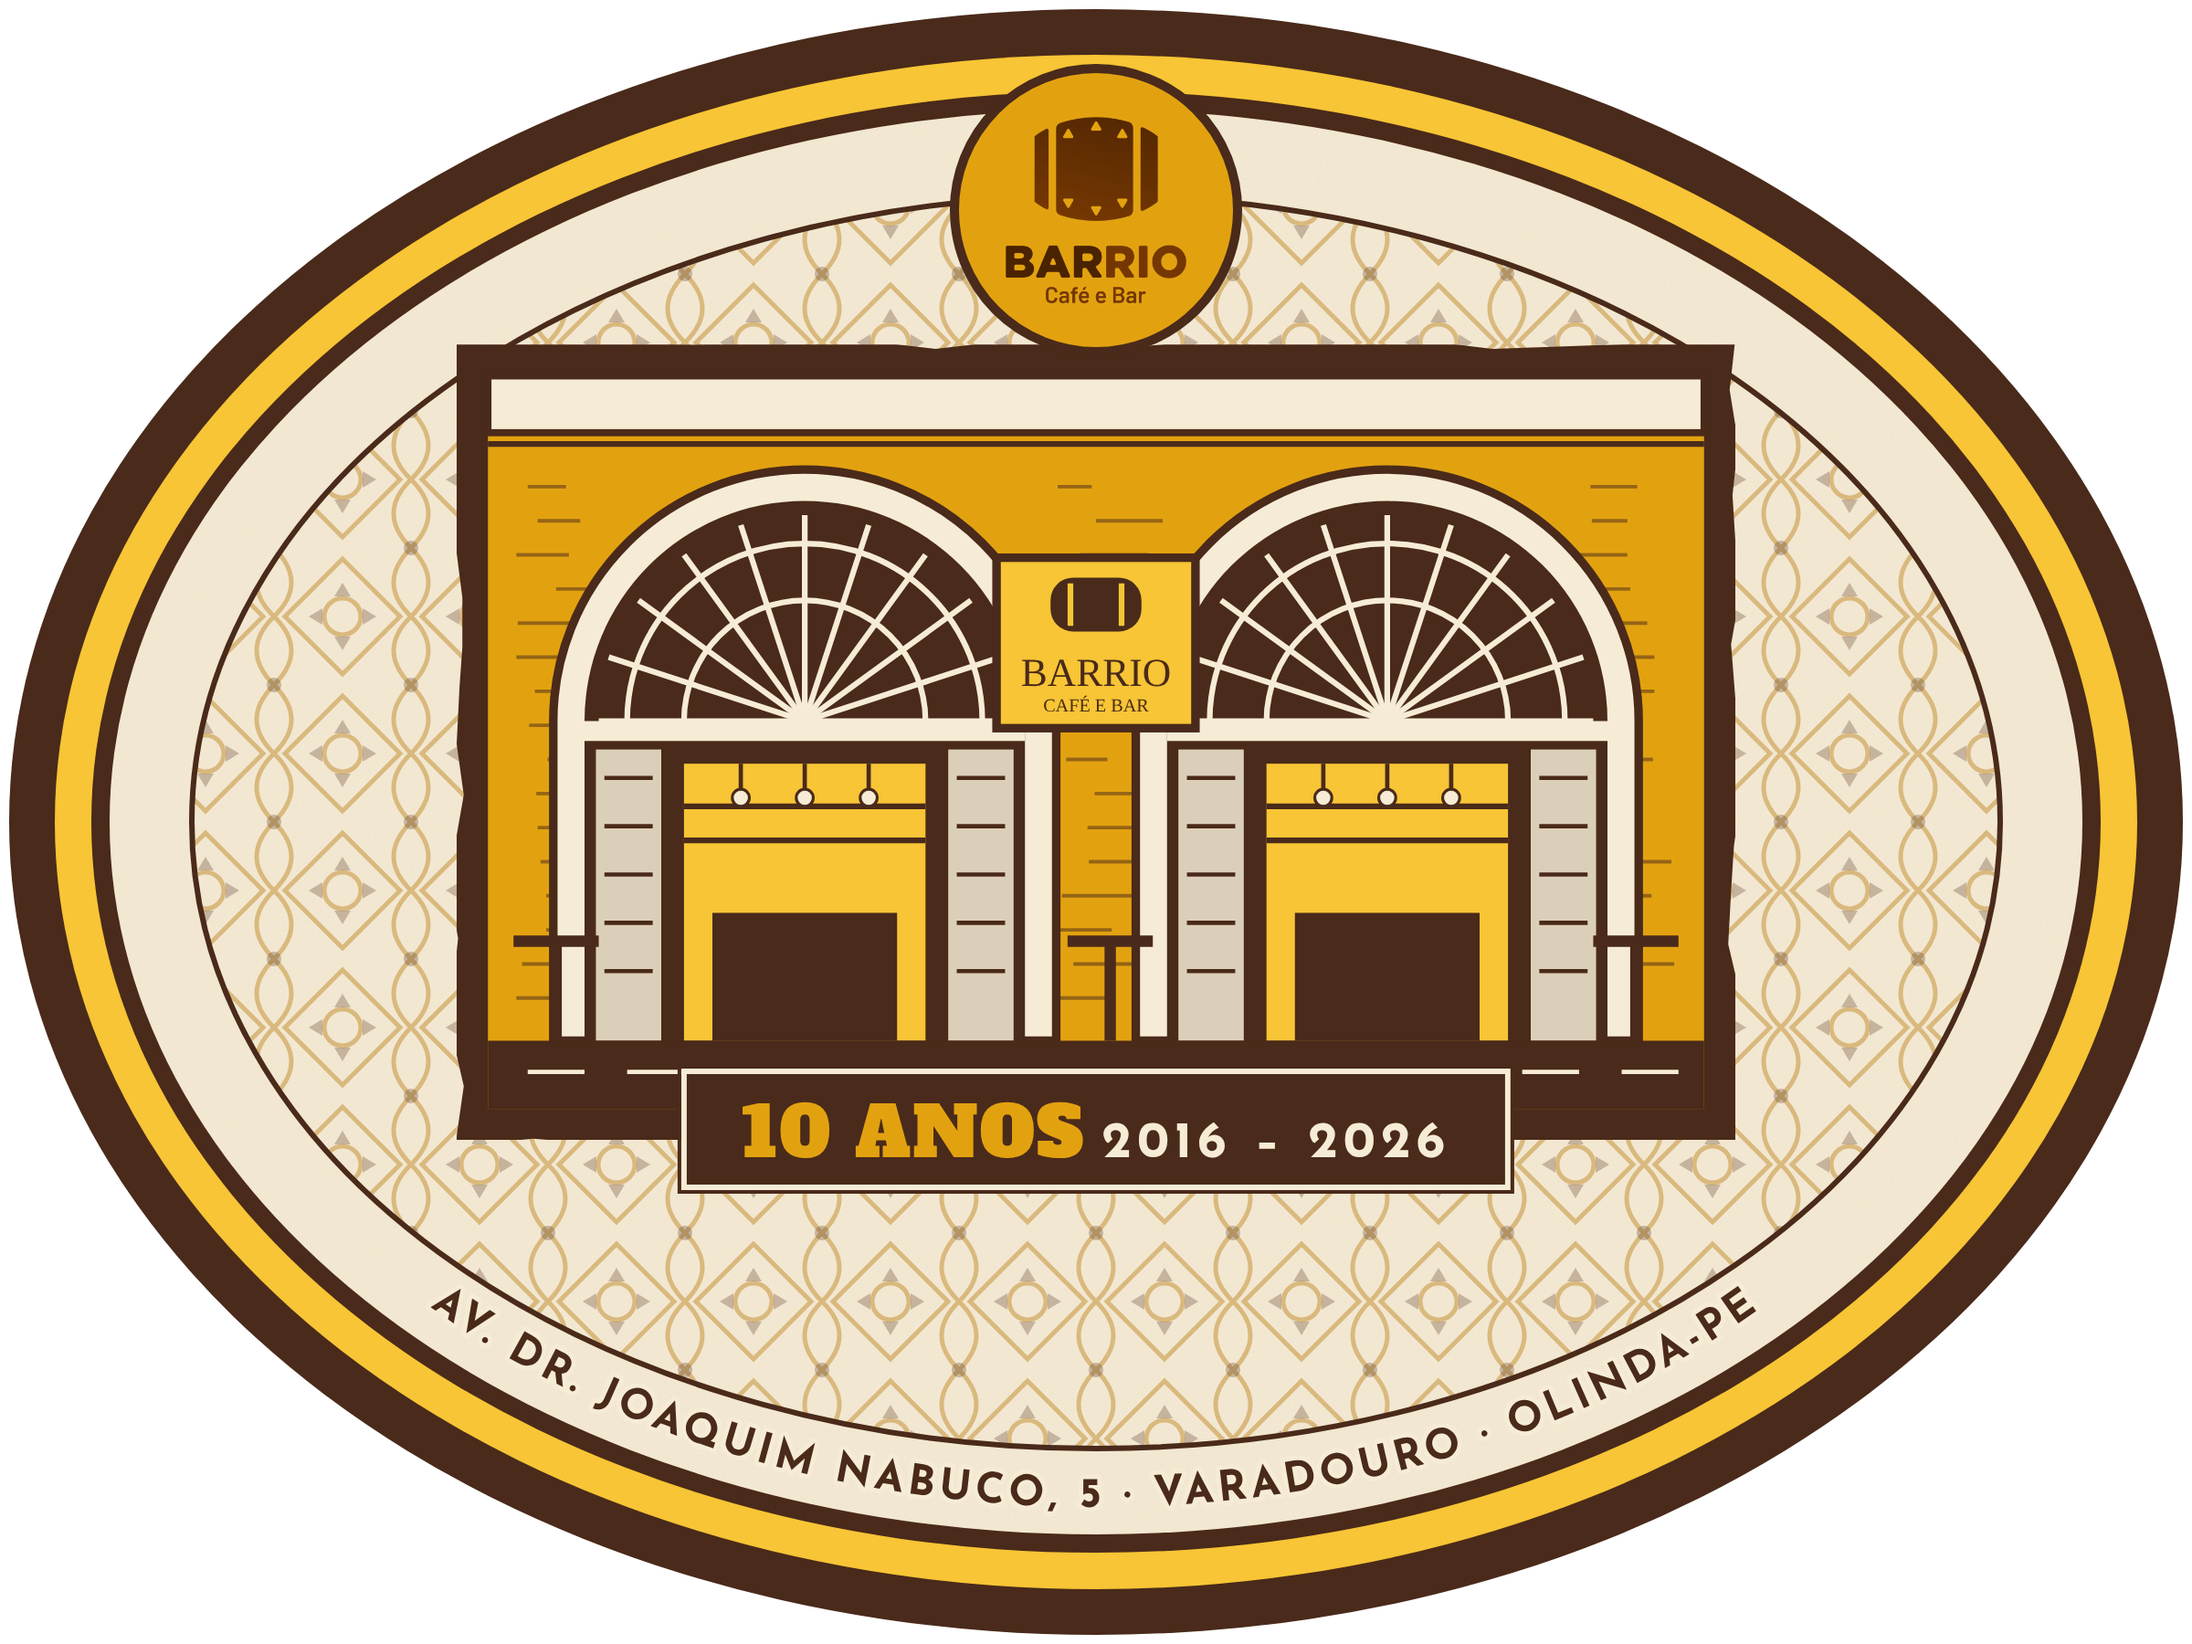
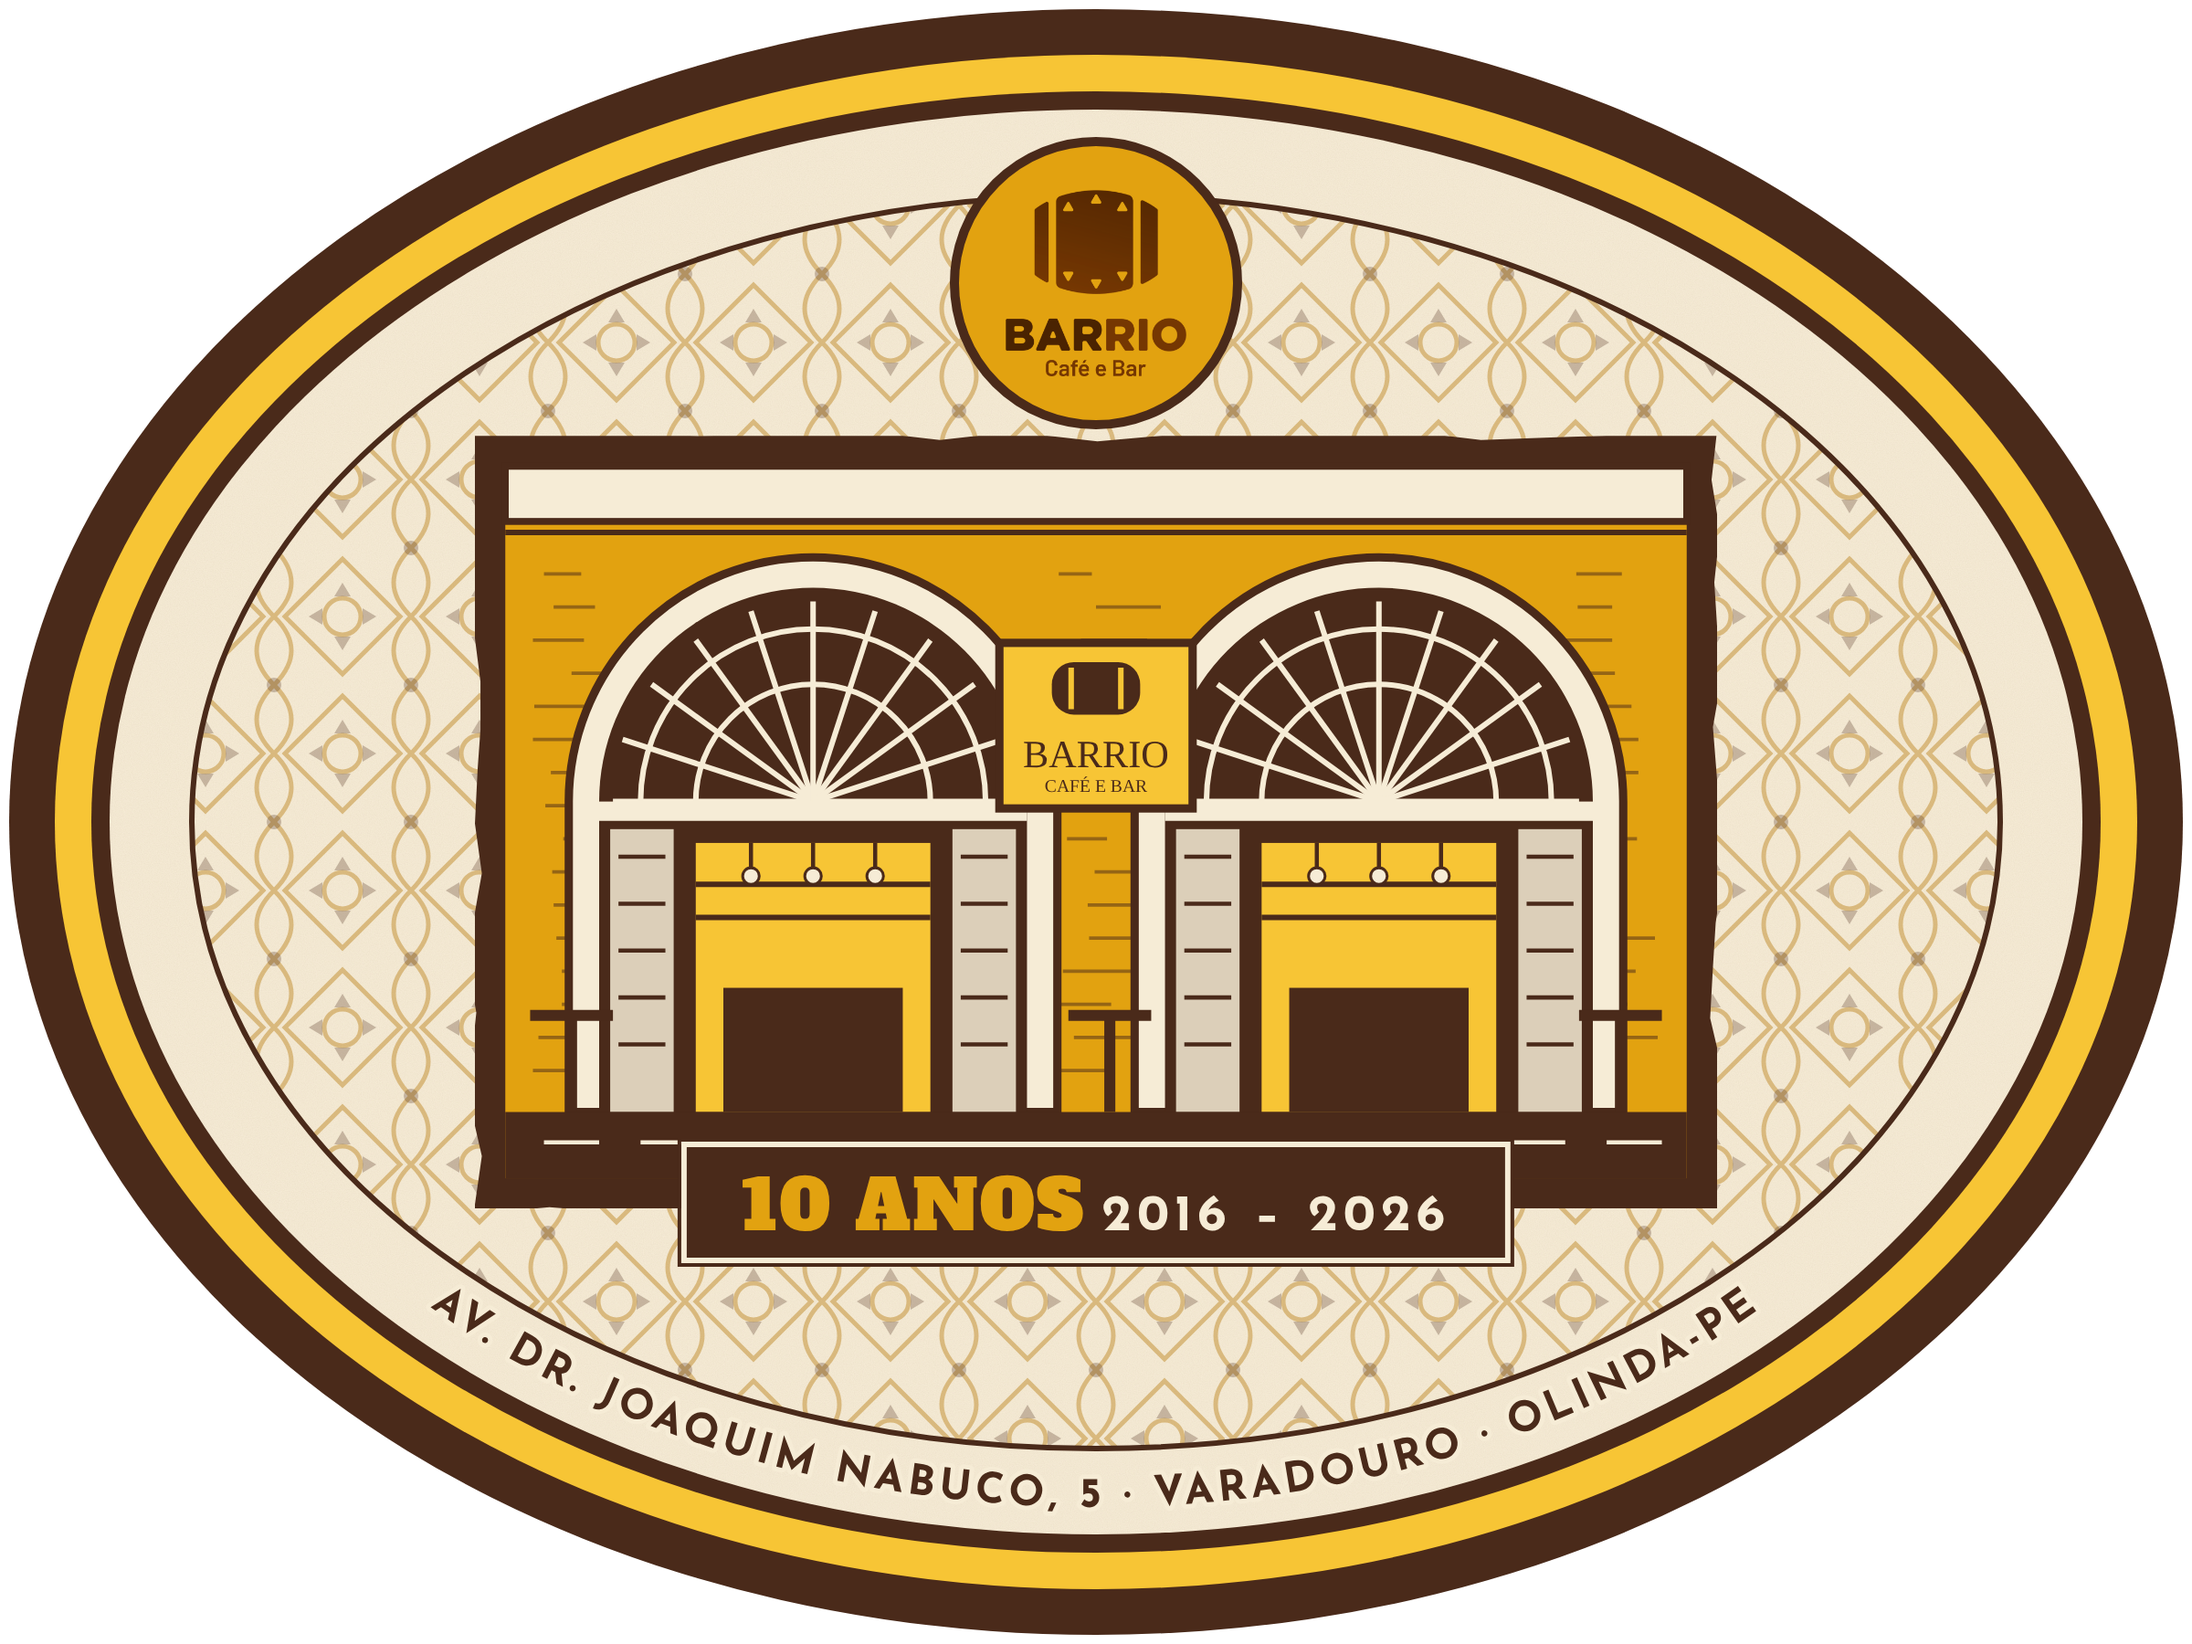
Adesivo oval: marca e figura centralizadas
Claude-Session: https://claude.ai/code/session_01DpBscE2ZgPUbFxmtBxoVQf

Changed region(s): [[0.1875, 0.0311, 0.8125, 0.7778]]

diff --git a/pecas/2026-11-05-adesivos/adesivo-oval.html b/pecas/2026-11-05-adesivos/adesivo-oval.html
@@ -10,12 +10,12 @@
   .peca::before { display: none; }
   .adesivo { width: 2400px; height: 1800px; }
   svg { position: absolute; inset: 0; }
-  .gravura { position: absolute; left: 50%; top: 50%; width: 1400px; aspect-ratio: 900/560; transform: translate(-50%, -60%);
+  .gravura { position: absolute; left: 50%; top: 50%; width: 1360px; aspect-ratio: 900/560; transform: translate(-50%, calc(-60% + 85px));
              background: url("../../marca/simbolos/xilo-barrio.svg") center / 100% 100%; }
-  .logo-selo { position: absolute; left: 50%; top: 70px; z-index: 2; width: 320px; height: 320px; margin-left: -160px; border-radius: 50%;
+  .logo-selo { position: absolute; left: 50%; top: 150px; z-index: 2; width: 320px; height: 320px; margin-left: -160px; border-radius: 50%;
                background: #e2a210; display: grid; place-items: center; border: 10px solid #4a2a1a; }
   .logo-selo img { width: 66%; }
-  .faixa10 { position: absolute; left: 50%; top: 1170px; transform: translateX(-50%); border: 6px solid #f6ecd6; outline: 4px solid #4a2a1a; background: #4a2a1a; color: #f6ecd6;
+  .faixa10 { position: absolute; left: 50%; top: 1250px; transform: translateX(-50%); border: 6px solid #f6ecd6; outline: 4px solid #4a2a1a; background: #4a2a1a; color: #f6ecd6;
              padding: 26px 60px 16px; white-space: nowrap; font: 700 56px/1 "Josefin Sans", sans-serif; letter-spacing: 6px; }
   .faixa10 b { font: 400 76px/1 "Alfa Slab One", serif; color: #e2a210; letter-spacing: 2px; margin-right: 18px; }
 </style>
